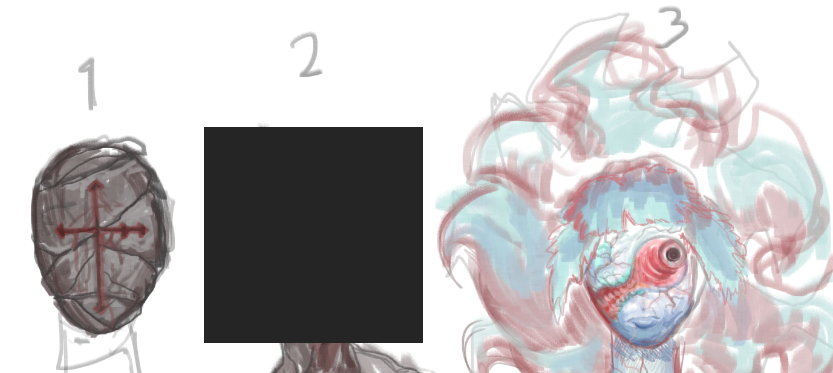
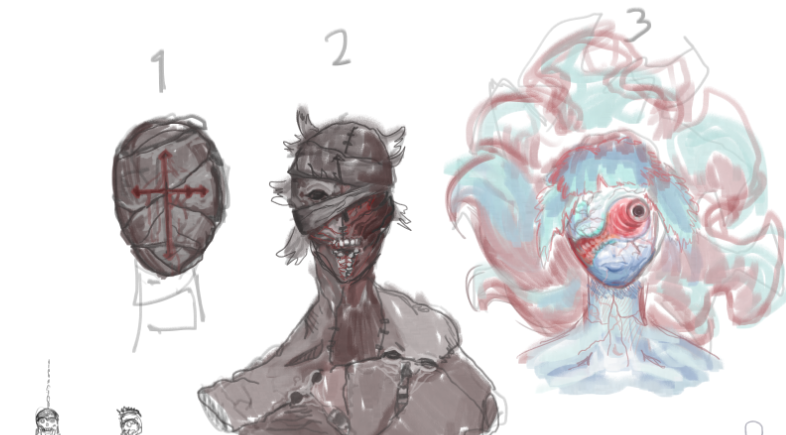
8月10日

diff --git a/Aug2024/Aug2024.md b/Aug2024/Aug2024.md
@@ -4,6 +4,7 @@
 Triangle披露了大量沉沦海更新中的生物的相关信息
 ## 概览图
 ![alt text](../Themed/SSO/image_SSOCreatures.png)
+![alt text](../Themed/SSO/image_SSOCreaturesWithName.png)
 ### 沙漠
 - 风暴蚁狮将会有四种变种，分别对应四种蚁狮变种(8/3)
   ![风暴蚁狮聊天](../Themed/SSO/text_antlion.png)
@@ -43,9 +44,12 @@ Triangle披露了大量沉沦海更新中的生物的相关信息
   ![alt text](../Themed/Polter/image_polterP1.png)
 - 一阶段的尾部(8/4)
   ![alt text](../Themed/Polter/image_polterP1Tail.png)
+- 二阶段(8/9)
+  ![alt text](../Themed/Polter/image_PolterP2.png)
+  ![alt text](../Themed/Polter/text_polterP2.png)
 
 ## 概念艺术
-- 二阶段仍然保密而不是黑块脸,三阶段的头发可能不长这样(8/6)
+- (8/9)
   ![alt text](../Themed/Polter/image_polterConcept.png)
 
 # 硫火崖优化
@@ -63,21 +67,30 @@ Triangle披露了大量沉沦海更新中的生物的相关信息
   ![alt text](../Themed/DS/image_Bayle.png)
 - 黄沙恶虫将不再像灾虫
   ![alt text](../Themed/DS/text_DSSon.png)
-
-# 荒漠灾虫重绘
-- 本周有希望完成(8/8)
-  ![alt text](../Themed/DS/text_DS.png)
-- 可能会加入鳍翼,像法环里的狂龙贝勒
-  ![alt text](../Themed/DS/text_DSFin.png)
-  ![alt text](../Themed/DS/image_Bayle.png)
-- 黄沙恶虫将不再像灾虫
-  ![alt text](../Themed/DS/text_DSSon.png)
+- 嘴部(8/10)
+  ![alt text](../Themed/DS/image_DSMouth.png)
 
 # 神吞新贴图
 - 由Heart Plus Up!绘制
 - 比现有贴图大得多
 - 一阶段脱甲,二阶段穿甲
 - 新贴图和新旧贴图对比在站内已经有视频(官号&汝不见鬼)
+
+# 军械库
+## 武器
+- 相位剑会被类似装甲核心6中的月光大剑的新武器取代,原有的来自毁灭战士的攻击方式会被移动到地狱武器上(8/9)*请优化这一段话的表述*
+  ![alt text](../Themed/Arsenal/text_phaseSlayer.png)
+  ![alt text](../Themed/Arsenal/text_phaseSlayer2.png)
+
+# 天蓝系列
+## 天蓝套
+疑似天蓝套新贴图(8/10)
+请自行做阅读理解(我没看懂)
+![alt text](../Themed/Armor_Rework/image_aerospec.png)
+![alt text](../Themed/Armor_Rework/text_aerospec.png)
+![alt text](../Themed/Armor_Rework/text_aerospec2.png)
+![alt text](../Themed/Armor_Rework/text_aerospec3.png)
+![alt text](../Themed/Armor_Rework/text_aerospec4.png)
 
 # 纯饼
 

diff --git a/Themed/Polter/Polter.md b/Themed/Polter/Polter.md
@@ -1,8 +1,6 @@
 # General
 
 # 设计
-- 二阶段将会是开心脸(8/6)
-  ![alt text](text_polterP2.png)
 - 盔甲设计基于生锈装甲骷髅(8/6)
   ![alt text](text_rustyBones.png)
 
@@ -11,7 +9,10 @@
   ![alt text](image_polterP1.png)
 - 一阶段的尾部(8/4)
   ![alt text](image_polterP1Tail.png)
+- 二阶段(8/9)
+  ![alt text](image_PolterP2.png)
+  ![alt text](text_polterP2.png)
 
 # 概念艺术
-- 二阶段仍然保密而不是黑块脸,三阶段的头发可能不长这样(8/6)
+- (8/9)
   ![alt text](image_polterConcept.png)

diff --git a/Themed/Armor_Rework/Armor_Rework.md b/Themed/Armor_Rework/Armor_Rework.md
@@ -16,3 +16,12 @@
   或者咒术回战的"八握剣異戒神将魔虚羅"
   ![alt text](image_mahoraga.png)
   ~~三角你学点好的吧...~~
+
+## 天蓝套
+疑似天蓝套新贴图(8/10)
+请自行做阅读理解(我没看懂)
+![alt text](image_aerospec.png)
+![alt text](text_aerospec.png)
+![alt text](text_aerospec2.png)
+![alt text](text_aerospec3.png)
+![alt text](text_aerospec4.png)

diff --git a/Themed/Arsenal/Arsenal.md b/Themed/Arsenal/Arsenal.md
@@ -1,1 +1,7 @@
 # General
+旧的先不搬了,已经画好的贴图在7月放过了,摸了
+
+# 武器
+- 相位剑会被类似装甲核心6中的月光大剑的新武器取代,原有的来自毁灭战士的攻击方式会被移动到地狱武器上(8/9)*请优化这一段话的表述*
+  ![alt text](text_phaseSlayer.png)
+  ![alt text](text_phaseSlayer2.png)

diff --git a/Themed/SSO/SSO.md b/Themed/SSO/SSO.md
@@ -7,6 +7,7 @@
 # 生物
 概览图
 ![alt text](image_SSOCreatures.png)
+![alt text](image_SSOCreaturesWithName.png)
 ## 风暴蚁狮
 - 风暴蚁狮将会有四种变种，分别对应四种蚁狮变种
   ![风暴蚁狮聊天](text_antlion.png)

diff --git a/Themed/DS/DS.md b/Themed/DS/DS.md
@@ -6,3 +6,5 @@
   ![alt text](image_Bayle.png)
 - 黄沙恶虫将不再像灾虫
   ![alt text](text_DSSon.png)
+- 嘴部(8/10)
+  ![alt text](image_DSMouth.png)
